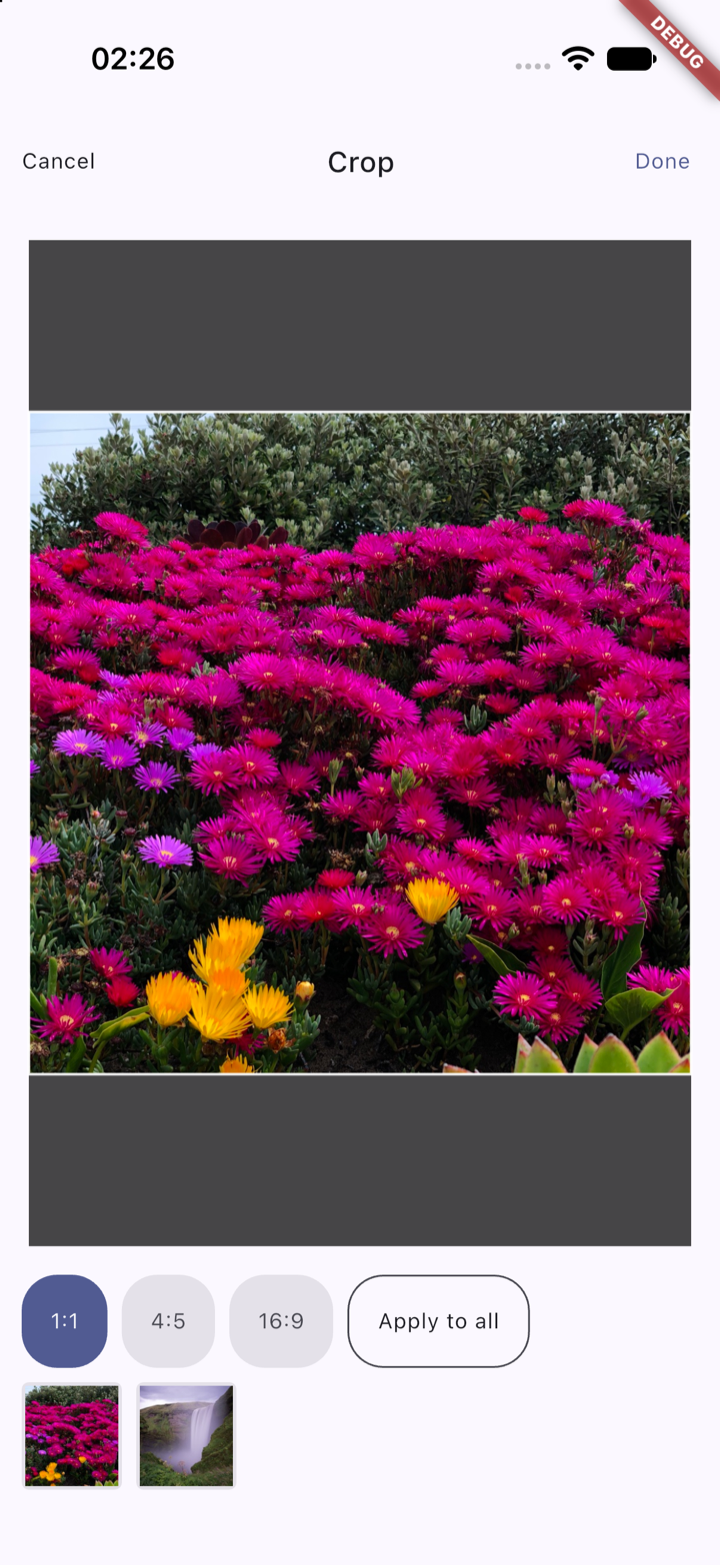
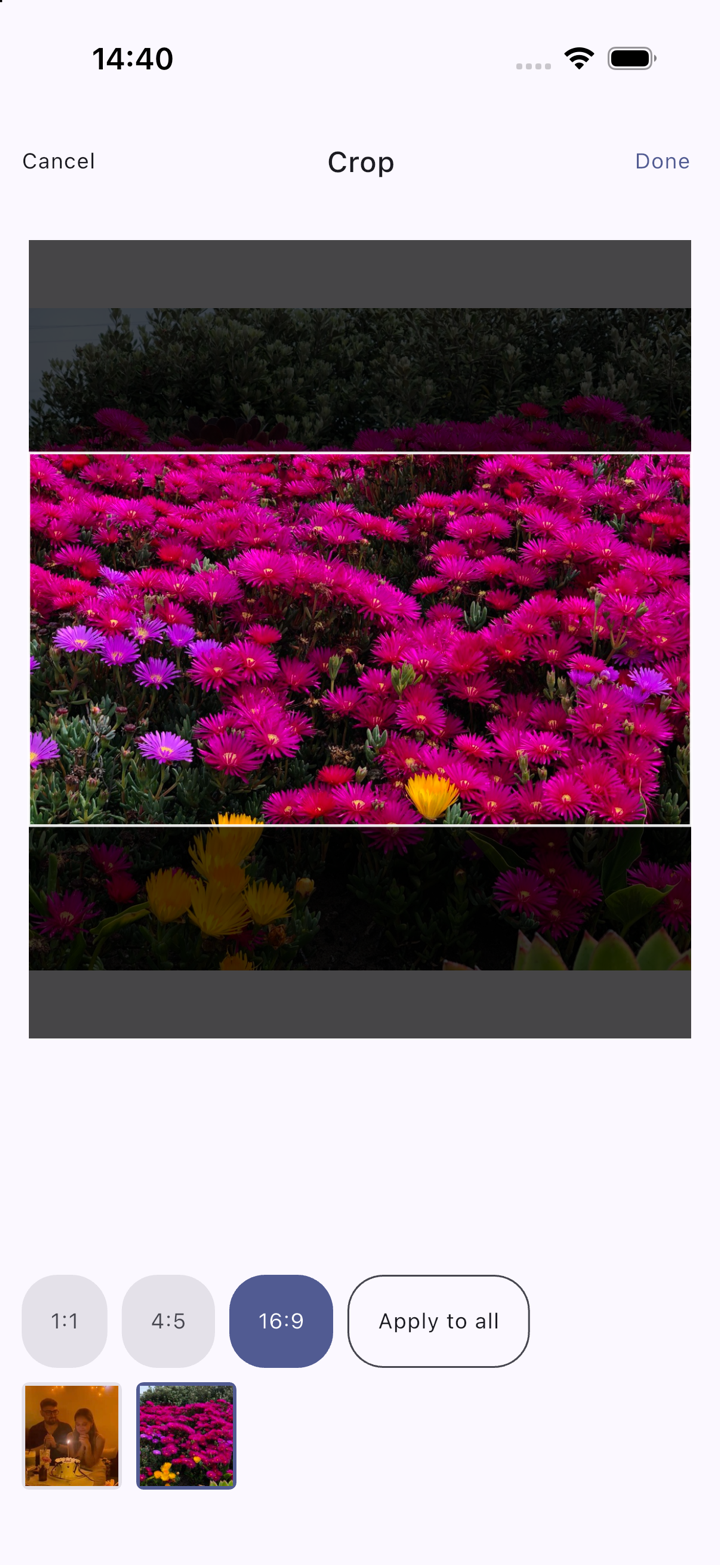
MOB-027: publish-ready docs — recaptured crop screenshots, a crop-step README section, resolved dartdoc references
The two crop screenshots on the pub.dev page still showed the bar floating
over the footage and a flat grey band where the darkened photo now shows;
both are recaptured from the current build, in the light theme the other
two use and without the DEBUG ribbon, which the example app now hides.
Their pubspec descriptions say what they show.

The README gains a "The crop step" section: framing rules, the video bar
under the window, trimming and carrying the range, playback with the
playhead, and cover picking on pause.

dartdoc: [run] and [CropViewport] resolved (the generated providers copy
the notifier docs, so they are regenerated; only Riverpod's own inherited
[state=] remains). The transform's pana was re-measured after this week's
changes and is unchanged at 160/160, recorded in the release doc.

diff --git a/lib/src/crop/video/video_playback_controller.g.dart b/lib/src/crop/video/video_playback_controller.g.dart
@@ -15,9 +15,11 @@ part of 'video_playback_controller.dart';
 ///
 /// - **Play** seeks to the playhead when it is inside the kept range and to the
 ///   in point otherwise, then polls the platform position every
-///   [VideoCropConstants.playbackPollInterval] and loops at the out point. The
-///   loop plays again after seeking, because the platform stops at the end of
-///   the file and cannot be trusted to still be running.
+///   [VideoCropConstants.playbackPollInterval] and loops at the out point — or
+///   from before the in point, which is where a natively looping player lands
+///   when a clip trimmed from the middle reaches the end of its file. The loop
+///   plays again after seeking rather than trusting the player to still be
+///   running.
 /// - **Pause** holds the playhead. In trim mode it then seeks the player onto
 ///   it, so the line on the strip and the frame on screen agree — the poll is
 ///   up to one interval behind the picture. In cover mode it sets the cover
@@ -43,9 +45,11 @@ final videoPlaybackControllerProvider = VideoPlaybackControllerFamily._();
 ///
 /// - **Play** seeks to the playhead when it is inside the kept range and to the
 ///   in point otherwise, then polls the platform position every
-///   [VideoCropConstants.playbackPollInterval] and loops at the out point. The
-///   loop plays again after seeking, because the platform stops at the end of
-///   the file and cannot be trusted to still be running.
+///   [VideoCropConstants.playbackPollInterval] and loops at the out point — or
+///   from before the in point, which is where a natively looping player lands
+///   when a clip trimmed from the middle reaches the end of its file. The loop
+///   plays again after seeking rather than trusting the player to still be
+///   running.
 /// - **Pause** holds the playhead. In trim mode it then seeks the player onto
 ///   it, so the line on the strip and the frame on screen agree — the poll is
 ///   up to one interval behind the picture. In cover mode it sets the cover
@@ -69,9 +73,11 @@ final class VideoPlaybackControllerProvider
   ///
   /// - **Play** seeks to the playhead when it is inside the kept range and to the
   ///   in point otherwise, then polls the platform position every
-  ///   [VideoCropConstants.playbackPollInterval] and loops at the out point. The
-  ///   loop plays again after seeking, because the platform stops at the end of
-  ///   the file and cannot be trusted to still be running.
+  ///   [VideoCropConstants.playbackPollInterval] and loops at the out point — or
+  ///   from before the in point, which is where a natively looping player lands
+  ///   when a clip trimmed from the middle reaches the end of its file. The loop
+  ///   plays again after seeking rather than trusting the player to still be
+  ///   running.
   /// - **Pause** holds the playhead. In trim mode it then seeks the player onto
   ///   it, so the line on the strip and the frame on screen agree — the poll is
   ///   up to one interval behind the picture. In cover mode it sets the cover
@@ -136,7 +142,7 @@ final class VideoPlaybackControllerProvider
 }
 
 String _$videoPlaybackControllerHash() =>
-    r'ec733a45109ad2f84d70c8e29b864c7d65dcaca5';
+    r'af629ea946c7792ba87219811617c222ce65befe';
 
 /// Plays the kept range of one video, so the author finds a moment by watching
 /// for it instead of guessing from twelve filmstrip thumbnails.
@@ -145,9 +151,11 @@ String _$videoPlaybackControllerHash() =>
 ///
 /// - **Play** seeks to the playhead when it is inside the kept range and to the
 ///   in point otherwise, then polls the platform position every
-///   [VideoCropConstants.playbackPollInterval] and loops at the out point. The
-///   loop plays again after seeking, because the platform stops at the end of
-///   the file and cannot be trusted to still be running.
+///   [VideoCropConstants.playbackPollInterval] and loops at the out point — or
+///   from before the in point, which is where a natively looping player lands
+///   when a clip trimmed from the middle reaches the end of its file. The loop
+///   plays again after seeking rather than trusting the player to still be
+///   running.
 /// - **Pause** holds the playhead. In trim mode it then seeks the player onto
 ///   it, so the line on the strip and the frame on screen agree — the poll is
 ///   up to one interval behind the picture. In cover mode it sets the cover
@@ -190,9 +198,11 @@ final class VideoPlaybackControllerFamily extends $Family
   ///
   /// - **Play** seeks to the playhead when it is inside the kept range and to the
   ///   in point otherwise, then polls the platform position every
-  ///   [VideoCropConstants.playbackPollInterval] and loops at the out point. The
-  ///   loop plays again after seeking, because the platform stops at the end of
-  ///   the file and cannot be trusted to still be running.
+  ///   [VideoCropConstants.playbackPollInterval] and loops at the out point — or
+  ///   from before the in point, which is where a natively looping player lands
+  ///   when a clip trimmed from the middle reaches the end of its file. The loop
+  ///   plays again after seeking rather than trusting the player to still be
+  ///   running.
   /// - **Pause** holds the playhead. In trim mode it then seeks the player onto
   ///   it, so the line on the strip and the frame on screen agree — the poll is
   ///   up to one interval behind the picture. In cover mode it sets the cover
@@ -228,9 +238,11 @@ final class VideoPlaybackControllerFamily extends $Family
 ///
 /// - **Play** seeks to the playhead when it is inside the kept range and to the
 ///   in point otherwise, then polls the platform position every
-///   [VideoCropConstants.playbackPollInterval] and loops at the out point. The
-///   loop plays again after seeking, because the platform stops at the end of
-///   the file and cannot be trusted to still be running.
+///   [VideoCropConstants.playbackPollInterval] and loops at the out point — or
+///   from before the in point, which is where a natively looping player lands
+///   when a clip trimmed from the middle reaches the end of its file. The loop
+///   plays again after seeking rather than trusting the player to still be
+///   running.
 /// - **Pause** holds the playhead. In trim mode it then seeks the player onto
 ///   it, so the line on the strip and the frame on screen agree — the poll is
 ///   up to one interval behind the picture. In cover mode it sets the cover

diff --git a/lib/src/export/export_controller.g.dart b/lib/src/export/export_controller.g.dart
@@ -10,8 +10,8 @@ part of 'export_controller.dart';
 // ignore_for_file: type=lint, type=warning
 /// Drives the sequential [ExportQueue] and publishes its progress.
 ///
-/// [run] **never throws**. The Done button calls it and walks away — Flutter
-/// rule 9 forbids `await` in UI — so an escaping exception would surface as an
+/// [ExportController.run] **never throws**. The Done button calls it and walks
+/// away — Flutter rule 9 forbids `await` in UI — so an escaping exception would surface as an
 /// unhandled zone error with no UI anywhere to show it.
 
 @ProviderFor(ExportController)
@@ -19,15 +19,15 @@ final exportControllerProvider = ExportControllerProvider._();
 
 /// Drives the sequential [ExportQueue] and publishes its progress.
 ///
-/// [run] **never throws**. The Done button calls it and walks away — Flutter
-/// rule 9 forbids `await` in UI — so an escaping exception would surface as an
+/// [ExportController.run] **never throws**. The Done button calls it and walks
+/// away — Flutter rule 9 forbids `await` in UI — so an escaping exception would surface as an
 /// unhandled zone error with no UI anywhere to show it.
 final class ExportControllerProvider
     extends $NotifierProvider<ExportController, ExportProgress> {
   /// Drives the sequential [ExportQueue] and publishes its progress.
   ///
-  /// [run] **never throws**. The Done button calls it and walks away — Flutter
-  /// rule 9 forbids `await` in UI — so an escaping exception would surface as an
+  /// [ExportController.run] **never throws**. The Done button calls it and walks
+  /// away — Flutter rule 9 forbids `await` in UI — so an escaping exception would surface as an
   /// unhandled zone error with no UI anywhere to show it.
   ExportControllerProvider._()
       : super(
@@ -60,8 +60,8 @@ String _$exportControllerHash() => r'524b9b87f4a09661117dd521c578b31024181c3f';
 
 /// Drives the sequential [ExportQueue] and publishes its progress.
 ///
-/// [run] **never throws**. The Done button calls it and walks away — Flutter
-/// rule 9 forbids `await` in UI — so an escaping exception would surface as an
+/// [ExportController.run] **never throws**. The Done button calls it and walks
+/// away — Flutter rule 9 forbids `await` in UI — so an escaping exception would surface as an
 /// unhandled zone error with no UI anywhere to show it.
 
 abstract class _$ExportController extends $Notifier<ExportProgress> {

diff --git a/lib/src/crop/crop_providers.g.dart b/lib/src/crop/crop_providers.g.dart
@@ -224,25 +224,25 @@ abstract class _$FocusedAsset extends $Notifier<String?> {
 
 /// True while a crop gesture is in flight.
 ///
-/// Drives the rule-of-thirds grid fading in here, and the floating video trim
-/// bar fading out in slice 5 (spec §2.7) — which is why it is a provider rather
-/// than a hook inside the viewport.
+/// Drives the rule-of-thirds grid fading in. A provider rather than a hook
+/// inside the viewport because the overlay that fades is the viewport's
+/// sibling, not its child.
 
 @ProviderFor(CropInteraction)
 final cropInteractionProvider = CropInteractionProvider._();
 
 /// True while a crop gesture is in flight.
 ///
-/// Drives the rule-of-thirds grid fading in here, and the floating video trim
-/// bar fading out in slice 5 (spec §2.7) — which is why it is a provider rather
-/// than a hook inside the viewport.
+/// Drives the rule-of-thirds grid fading in. A provider rather than a hook
+/// inside the viewport because the overlay that fades is the viewport's
+/// sibling, not its child.
 final class CropInteractionProvider
     extends $NotifierProvider<CropInteraction, bool> {
   /// True while a crop gesture is in flight.
   ///
-  /// Drives the rule-of-thirds grid fading in here, and the floating video trim
-  /// bar fading out in slice 5 (spec §2.7) — which is why it is a provider rather
-  /// than a hook inside the viewport.
+  /// Drives the rule-of-thirds grid fading in. A provider rather than a hook
+  /// inside the viewport because the overlay that fades is the viewport's
+  /// sibling, not its child.
   CropInteractionProvider._()
       : super(
           from: null,
@@ -274,9 +274,9 @@ String _$cropInteractionHash() => r'a0806fb7812f22131f8f4bbb9c66605d9cb15244';
 
 /// True while a crop gesture is in flight.
 ///
-/// Drives the rule-of-thirds grid fading in here, and the floating video trim
-/// bar fading out in slice 5 (spec §2.7) — which is why it is a provider rather
-/// than a hook inside the viewport.
+/// Drives the rule-of-thirds grid fading in. A provider rather than a hook
+/// inside the viewport because the overlay that fades is the viewport's
+/// sibling, not its child.
 
 abstract class _$CropInteraction extends $Notifier<bool> {
   bool build();

diff --git a/lib/src/crop/video/video_preview_player.g.dart b/lib/src/crop/video/video_preview_player.g.dart
@@ -8,9 +8,14 @@ part of 'video_preview_player.dart';
 
 // GENERATED CODE - DO NOT MODIFY BY HAND
 // ignore_for_file: type=lint, type=warning
+/// The muted, initialised preview player for [assetId], seeked to the trim's
+/// in point. Disposed with the provider; framing a crop is a silent activity.
 
 @ProviderFor(videoPreviewPlayer)
 final videoPreviewPlayerProvider = VideoPreviewPlayerFamily._();
+
+/// The muted, initialised preview player for [assetId], seeked to the trim's
+/// in point. Disposed with the provider; framing a crop is a silent activity.
 
 final class VideoPreviewPlayerProvider extends $FunctionalProvider<
         AsyncValue<VideoPreviewPlayer>,
@@ -19,6 +24,8 @@ final class VideoPreviewPlayerProvider extends $FunctionalProvider<
     with
         $FutureModifier<VideoPreviewPlayer>,
         $FutureProvider<VideoPreviewPlayer> {
+  /// The muted, initialised preview player for [assetId], seeked to the trim's
+  /// in point. Disposed with the provider; framing a crop is a silent activity.
   VideoPreviewPlayerProvider._(
       {required VideoPreviewPlayerFamily super.from,
       required String super.argument})
@@ -67,7 +74,10 @@ final class VideoPreviewPlayerProvider extends $FunctionalProvider<
 }
 
 String _$videoPreviewPlayerHash() =>
-    r'9264402ea307d850fde9ba7eb28457a81cd0a30a';
+    r'00b09f3b27d2d6957676106d4ce2cf5303e8958e';
+
+/// The muted, initialised preview player for [assetId], seeked to the trim's
+/// in point. Disposed with the provider; framing a crop is a silent activity.
 
 final class VideoPreviewPlayerFamily extends $Family
     with $FunctionalFamilyOverride<FutureOr<VideoPreviewPlayer>, String> {
@@ -79,6 +89,9 @@ final class VideoPreviewPlayerFamily extends $Family
           $allTransitiveDependencies: null,
           isAutoDispose: true,
         );
+
+  /// The muted, initialised preview player for [assetId], seeked to the trim's
+  /// in point. Disposed with the provider; framing a crop is a silent activity.
 
   VideoPreviewPlayerProvider call(
     String assetId,

diff --git a/lib/src/export/export_controller.dart b/lib/src/export/export_controller.dart
@@ -14,8 +14,8 @@ part 'export_controller.g.dart';
 
 /// Drives the sequential [ExportQueue] and publishes its progress.
 ///
-/// [run] **never throws**. The Done button calls it and walks away — Flutter
-/// rule 9 forbids `await` in UI — so an escaping exception would surface as an
+/// [ExportController.run] **never throws**. The Done button calls it and walks
+/// away — Flutter rule 9 forbids `await` in UI — so an escaping exception would surface as an
 /// unhandled zone error with no UI anywhere to show it.
 @Riverpod(keepAlive: true)
 class ExportController extends _$ExportController {

diff --git a/lib/src/crop/crop_math.dart b/lib/src/crop/crop_math.dart
@@ -12,7 +12,7 @@ import 'package:kutu_media_transform/kutu_media_transform.dart';
 /// phone and a tablet, would break on rotation, and the export path would have
 /// to be told the layout size to reconstruct a [CropRect]. Storing against a
 /// fixed square area removes all three problems: the crop rect a state produces
-/// is identical everywhere, and [CropViewport] is the only code that ever
+/// is identical everywhere, and `CropViewport` is the only code that ever
 /// converts, through [rescaleCropState].
 ///
 /// Square on purpose, so no aspect ratio in the menu is privileged over

diff --git a/example/lib/example_app.dart b/example/lib/example_app.dart
@@ -24,6 +24,9 @@ class _ExampleAppState extends State<ExampleApp> {
   @override
   Widget build(BuildContext context) => MaterialApp(
         title: ExampleSeed.title,
+        // The pub.dev screenshots are captured from this app; a DEBUG ribbon
+        // across the corner of every one of them is noise, not information.
+        debugShowCheckedModeBanner: false,
         theme:
             ThemeData(colorSchemeSeed: ExampleSeed.color, useMaterial3: true),
         darkTheme: ThemeData(

diff --git a/lib/src/crop/video/video_trim_controller.g.dart b/lib/src/crop/video/video_trim_controller.g.dart
@@ -87,7 +87,7 @@ final class VideoTrimControllerProvider
 }
 
 String _$videoTrimControllerHash() =>
-    r'8ef046af91c61b15d17b1aefb86b509f957c5dae';
+    r'1b33d27029dafd8c2535ab13617d0910bc377199';
 
 /// Owns the trim handles and the cover cursor for one asset.
 ///

diff --git a/README.md b/README.md
@@ -162,6 +162,41 @@ taking `config` and `source` as plain arguments alongside `onCompleted` and `onC
 `landscape169` (16:9), `story916` (9:16), `banner31` (3:1) — plus
 `CropAspect(x: …, y: …, label: CropAspectLabel.custom)` for anything else.
 
+## The crop step
+
+One screen for every selected asset, with a permanent rail of thumbnails along the
+bottom to tab between them. Each asset keeps its own framing and its own ratio; *Apply
+to all* copies the ratio, never the pan and zoom, because a crop centred on a face in
+one photo lands on a shoulder in the next.
+
+**Framing.** The window is fixed and the media moves under it: drag to pan, pinch to
+zoom, fling to coast. The image can never leave a gap — zoom-out stops at the scale
+that still covers the window, and pans clamp at the edges. The rest of the photo shows
+darkened beyond the window, and a drag that starts on that darkened part still pans. A
+rule-of-thirds grid fades in while you hold and out when you let go.
+
+**Video.** A control bar sits under the window — under, not over, so it never covers
+the footage being framed — and the window is the same size whether a photo or a video
+is focused. The bar holds:
+
+- **Trim.** Two handles on a filmstrip of the whole clip. Drag a handle to move one
+  end, or grab the framed zone between them to carry the whole range with its length
+  intact. Dragging seeks the muted preview, so you see the frame under your finger.
+- **Play.** The play chip plays the kept range, looping at the out point. In trim mode
+  a playhead rides the filmstrip and stays where playback stopped, as the mark to drag
+  a handle towards; pausing lands the picture on that exact frame.
+- **Cover.** A second mode on the same filmstrip: one cursor picks the poster frame,
+  constrained to the kept range. While the clip plays the cursor follows the playhead,
+  and pausing — with the chip or by grabbing the cursor — picks that frame.
+
+`enableTrim: false` and `enableCoverFrame: false` remove their controls; with both off
+the bar is gone and the video is cropped whole. `maxVideoDuration` caps the kept range
+and slides the window rather than letting it exceed the cap.
+
+Everything above is on-device preview only. Nothing is written until *Done*, when the
+export queue runs the framing, trim and cover through `kutu_media_transform`, one
+asset at a time.
+
 ## The result, and who owns the files
 
 ```dart
